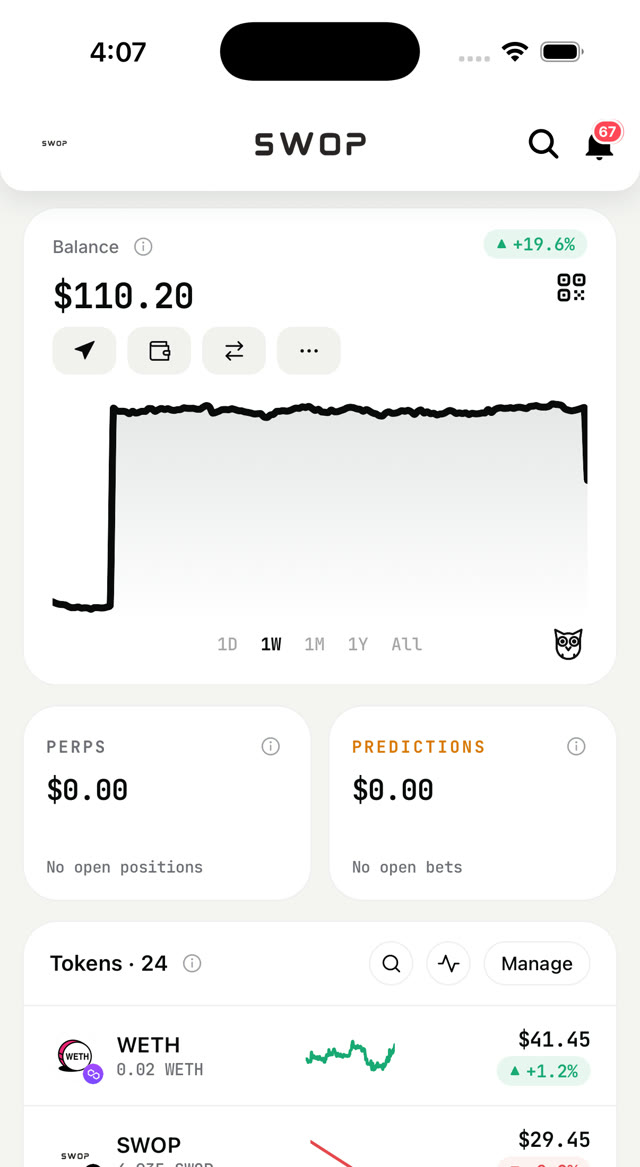
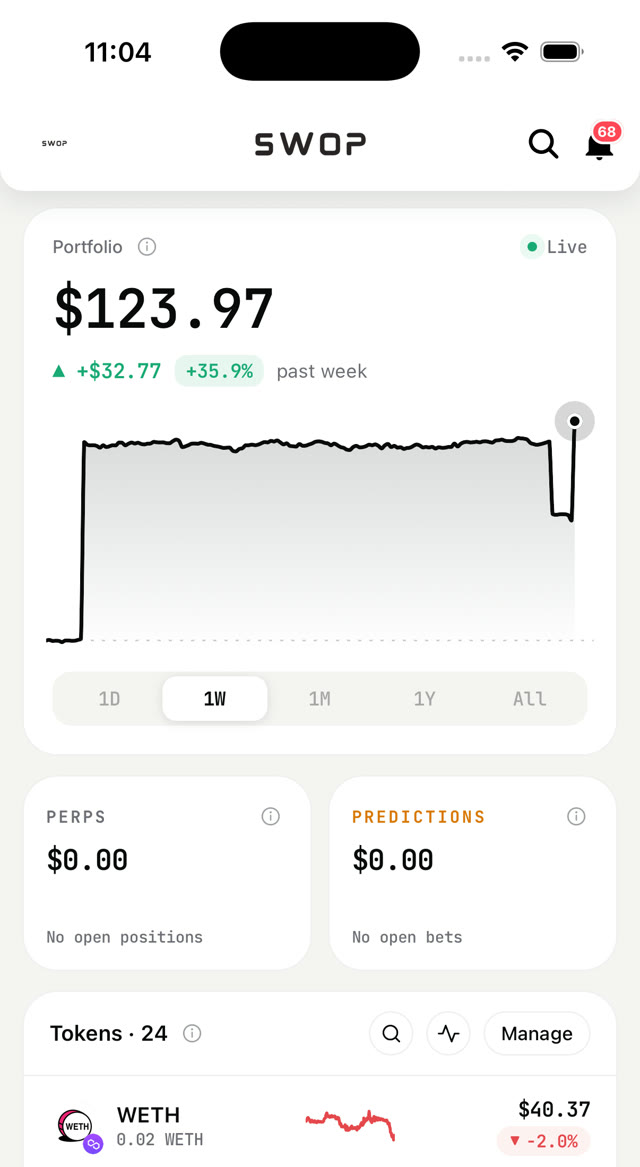
feat(home): new wallet UI in the hero; light status bar; no Web app button on phones
- Hero wallet phone recaptured from current app main: Portfolio card with
  Live dot, week change, segmented timeframes
- theme-color, html background and the top nav use the hero's #FAFAFA so
  iPhone Safari no longer shows a dark band above the page
- Phones show just the App Store and Google Play badges

diff --git a/index.html b/index.html
@@ -8,7 +8,7 @@
 <meta property="og:title" content="Swop: own your name, move value">
 <meta property="og:description" content="One swop.id gives you a page, a wallet and a way to get paid by people and AI agents.">
 <meta property="og:url" content="https://swopme.co/">
-<meta name="theme-color" content="#010108">
+<meta name="theme-color" content="#FAFAFA">
 <link rel="icon" href="/favicon.ico">
 <link rel="preconnect" href="https://fonts.googleapis.com">
 <link rel="stylesheet" href="https://fonts.googleapis.com/css2?family=Figtree:wght@400;500;600;700;800;900&family=Space+Mono:wght@400;700&family=Inter:wght@400;500;600;700;800&family=JetBrains+Mono:wght@500;600;700;800&display=swap">
@@ -23,7 +23,7 @@
   color-scheme:dark;
 }
 *{box-sizing:border-box;margin:0}
-html{background:var(--bg);overflow-x:clip}
+html{background:#FAFAFA;overflow-x:clip}
 html.lenis,html.lenis body{height:auto}
 .lenis.lenis-smooth{scroll-behavior:auto!important}
 body{background:var(--bg);color:var(--fg);font-family:var(--display);font-size:16px;line-height:1.5;overflow-x:clip;-webkit-font-smoothing:antialiased}
@@ -149,6 +149,7 @@ footer.light{border-top:1px solid var(--line)}
 footer.light .wm{color:#0a0a0c}
 
 /* nav: light glass */
+nav.top{background:#FAFAFA}
 nav.top .wm{color:#0a0a0c}
 nav.top .links a,.navshop{color:rgba(10,10,12,.7)}
 nav.top .links a:hover,.navshop:hover{color:#0a0a0c}
@@ -669,7 +670,7 @@ footer a{color:var(--fg2);text-decoration:none} footer a:hover{color:#fff}
   .hcta{gap:8px;width:100%}
   .sbtn,.wbtn{height:46px;padding:0 13px 0 11px}
   .sbtn b,.wbtn b{font-size:17px}
-  .wbtn{flex:1 1 100%;justify-content:center}
+  .wbtn{display:none}
   .fan{height:470px;margin-top:28px}
   .blob.b1{width:120%;height:360px;top:30px}
   #hero .toasts{width:calc(100vw - 40px);max-width:330px;top:44px}
